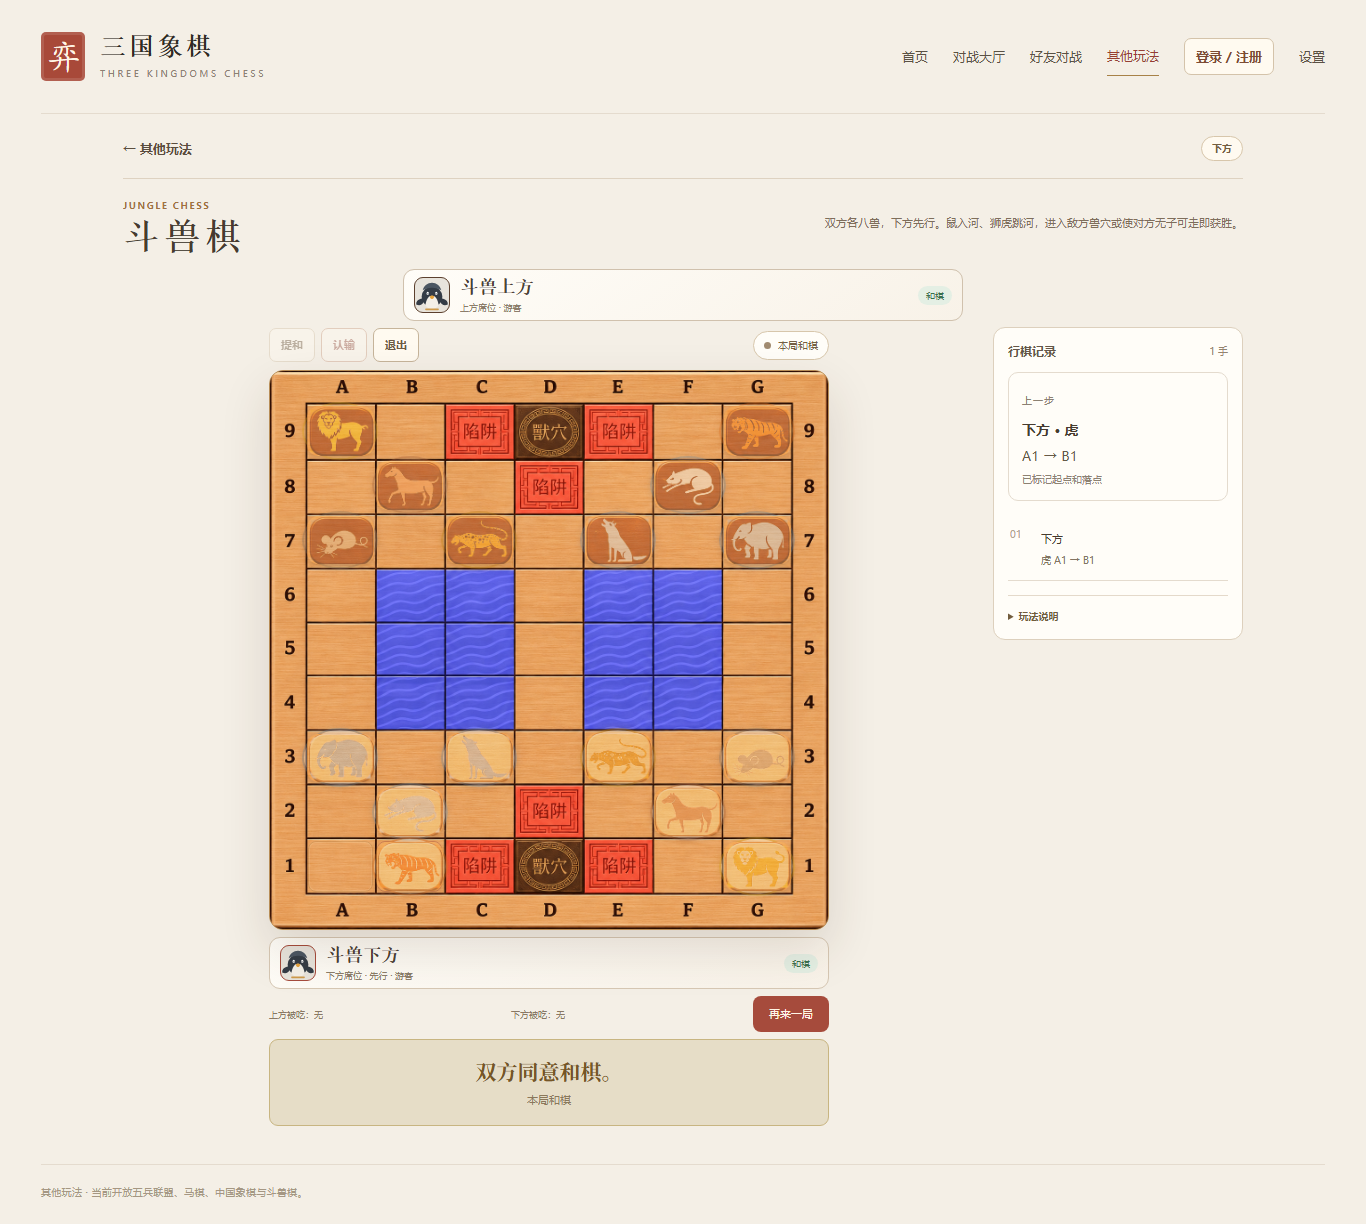
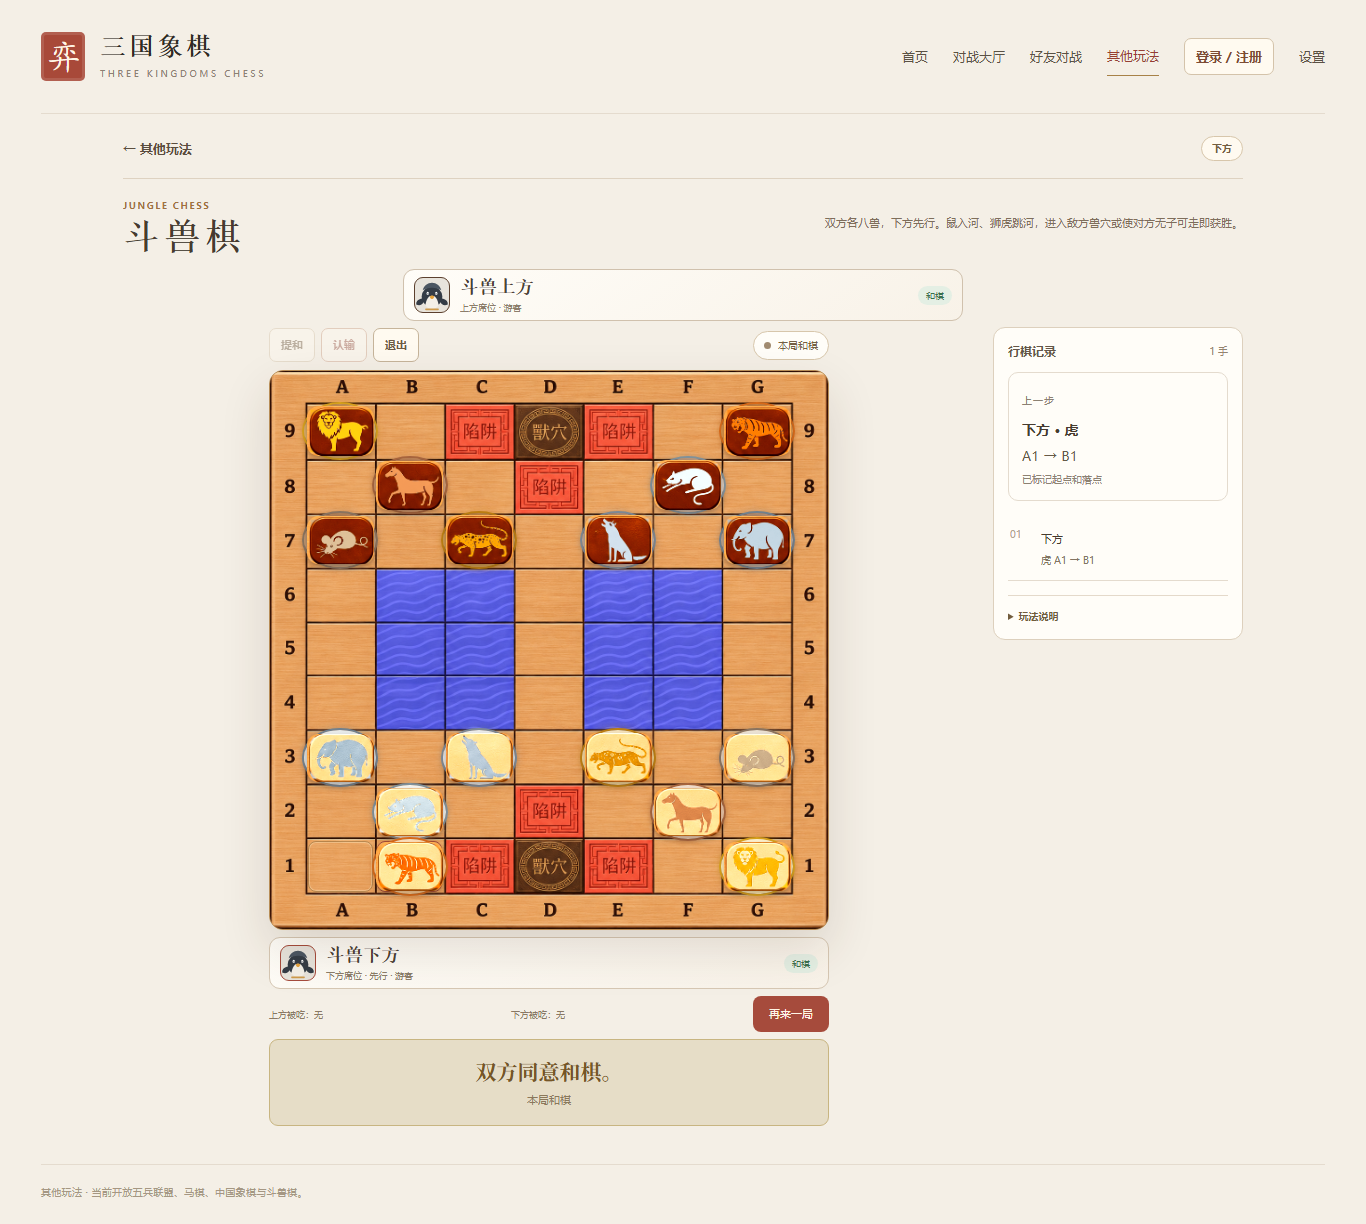
fix: sync beast chess views and move sounds

diff --git a/src/components/BeastChessBoard.vue b/src/components/BeastChessBoard.vue
@@ -19,6 +19,7 @@ const props = defineProps<{
   targets: BeastPoint[];
   lastMove: BeastMove | null;
   disabled?: boolean;
+  flipped?: boolean;
 }>();
 
 const emit = defineEmits<{ cell: [point: BeastPoint] }>();
@@ -26,7 +27,9 @@ const boardSource = 'images/beast-chess/board.png';
 
 const cells = computed(() => Array.from({ length: 9 }, (_, row) => Array.from(
   { length: 7 },
-  (_, x) => ({ x, y: 8 - row }),
+  (_, visualX) => props.flipped
+    ? { x: 6 - visualX, y: row }
+    : { x: visualX, y: 8 - row },
 )).flat());
 
 const isTarget = (point: BeastPoint) => props.targets.some(target => target.x === point.x && target.y === point.y);
@@ -58,7 +61,7 @@ function cellLabel(point: BeastPoint): string {
 <template>
   <div class="beast-board-frame">
     <img class="beast-board-image" :src="boardSource" alt="木质斗兽棋棋盘">
-    <div class="beast-board-grid" role="group" aria-label="斗兽棋棋盘">
+    <div class="beast-board-grid" role="group" :aria-label="flipped ? '斗兽棋棋盘，上方玩家视角' : '斗兽棋棋盘，下方玩家视角'">
       <button v-for="point in cells" :key="coordinate(point)" type="button" class="beast-cell"
         :class="{
           'has-piece': !!pieceAt(point),
@@ -69,7 +72,7 @@ function cellLabel(point: BeastPoint): string {
           'last-to': isLastPoint(point, 'to'),
           'last-path': isLastPath(point),
         }" :data-coordinate="coordinate(point)" :data-x="point.x" :data-y="point.y"
-        :aria-label="cellLabel(point)" :disabled="disabled" @click="emit('cell', point)">
+        :aria-label="cellLabel(point)" :aria-disabled="disabled" @click="emit('cell', point)">
         <BeastChessPiece v-if="pieceAt(point)" :piece="pieceAt(point)!" :selected="pieceAt(point)?.id === selectedId" />
         <span v-if="isTarget(point) && !pieceAt(point)" class="beast-target-dot" aria-hidden="true"></span>
       </button>
@@ -83,7 +86,7 @@ function cellLabel(point: BeastPoint): string {
 .beast-board-grid{position:absolute;left:6.3796%;top:5.7416%;display:grid;grid-template-columns:repeat(7,minmax(0,1fr));grid-template-rows:repeat(9,minmax(0,1fr));width:87.1611%;height:87.8788%}
 .beast-cell{position:relative;min-width:0;min-height:0;margin:0;padding:0;border:0;border-radius:8px;background:transparent;color:inherit;cursor:pointer;outline:none;transition:background .14s ease,box-shadow .14s ease}
 .beast-cell::before{position:absolute;inset:3%;z-index:1;border:1px solid transparent;border-radius:8px;content:"";pointer-events:none;transition:border-color .14s ease,background .14s ease,box-shadow .14s ease}
-.beast-cell:hover:not(:disabled)::before{background:#fff8e912;border-color:#7e4a2660}
+.beast-cell:hover:not([aria-disabled="true"])::before{background:#fff8e912;border-color:#7e4a2660}
 .beast-cell:focus-visible{box-shadow:inset 0 0 0 3px #fff9df,inset 0 0 0 5px #8d3f31}
 .beast-cell.selected::before{border-color:#9e3e31;background:#fff2d020;box-shadow:inset 0 0 13px #e5bb6b55}
 .beast-cell.last-from::before{border-color:#8b6d3d88;box-shadow:inset 0 0 0 1px #fff2d055}
@@ -91,7 +94,7 @@ function cellLabel(point: BeastPoint): string {
 .beast-cell.last-path::before{border-color:#d5c47a88;background:#d6b65516}
 .beast-cell.target::before{border-color:#80653188;background:#fff8dd15}
 .beast-cell.capture-target::before{border:2px solid #a73d30;background:#a73d3010;box-shadow:inset 0 0 0 2px #ffe9b5,0 0 9px #a73d3060}
-.beast-cell:disabled{cursor:default}
+.beast-cell[aria-disabled="true"]{cursor:default}
 .beast-target-dot{position:absolute;left:50%;top:50%;z-index:4;width:21%;aspect-ratio:1;transform:translate(-50%,-50%);border:2px solid #fff3d1;border-radius:50%;background:#9d6837;box-shadow:0 1px 5px #3d281c66}
 @media(max-width:640px){
   .beast-board-frame{width:calc(100vw - 8px);margin-left:calc((100% - (100vw - 8px)) / 2);border-radius:10px;box-shadow:0 12px 28px #3e2b1720,inset 0 0 0 3px #f1d8ad55}

diff --git a/src/components/BeastChessPage.vue b/src/components/BeastChessPage.vue
@@ -31,8 +31,14 @@ import type {
 } from '../beast-chess.ts';
 import { backendAssetUrl, socketIoConfig } from '../network-config.ts';
 import { appRouteUrl } from '../navigation.ts';
+import { BeastMoveSoundTracker, GameAudio, loadAudioSettings } from '../audio.ts';
+import type { AudioSettings } from '../audio.ts';
 
-const props = defineProps<{ accountName: string | null; accountAvatar?: string | null }>();
+const props = defineProps<{
+  accountName: string | null;
+  accountAvatar?: string | null;
+  audioSettings?: AudioSettings;
+}>();
 const emit = defineEmits<{ other: [] }>();
 const guestAvatar = 'images/guest-avatar.svg';
 const initialGame = newBeastGame();
@@ -61,6 +67,8 @@ const inviteVisible = ref(false), inviteText = ref('');
 const resignDialog = ref<HTMLDialogElement | null>(null), leaveDialog = ref<HTMLDialogElement | null>(null);
 const seatDialog = ref<HTMLDialogElement | null>(null);
 const watching = ref(false);
+const gameAudio = new GameAudio();
+const moveSoundTracker = new BeastMoveSoundTracker();
 let socket: Socket | null = null;
 let resumeAttempt = 0;
 
@@ -72,6 +80,7 @@ const mySeat = computed(() => myPlayer.value?.side ?? null);
 const myGameSide = computed<BeastSide | null>(() => mySeat.value ? beastSeatToGameSide(mySeat.value) : null);
 const isMyTurn = computed(() => game.value.status === 'playing'
   && !!myGameSide.value && game.value.turn === myGameSide.value);
+const boardFlipped = computed(() => mySeat.value === 'black');
 const selected = computed<BeastPiece | null>(() => selectedId.value
   ? game.value.pieces.find(piece => piece.id === selectedId.value) ?? null
   : null);
@@ -235,8 +244,14 @@ function openSocket() {
   const options = { ...config.options, autoConnect: false, reconnection: true, forceNew: true };
   socket = config.origin ? io(config.origin, options) : io(options);
   socket.on('connect', () => { connection.value = 'online'; void recover(); });
-  socket.on('disconnect', () => { connection.value = 'offline'; });
-  socket.on('connect_error', () => { connection.value = 'offline'; });
+  socket.on('disconnect', () => {
+    connection.value = 'offline';
+    moveSoundTracker.suspend();
+  });
+  socket.on('connect_error', () => {
+    connection.value = 'offline';
+    moveSoundTracker.suspend();
+  });
   socket.on('beast:state', acceptState);
   socket.on('beast:session-replaced', () => {
     clearSession();
@@ -466,6 +481,15 @@ function selectInvite(event: FocusEvent) {
 watch([() => roomState.value?.phase, () => game.value.turn], () => {
   selectedId.value = null;
 });
+watch(() => roomState.value?.game, current => {
+  if (!current) return;
+  const kind = moveSoundTracker.observe(
+    current,
+    `beast:${roomState.value?.round ?? 0}`,
+    connection.value === 'online',
+  );
+  if (kind) gameAudio.playEffect(kind, props.audioSettings ?? loadAudioSettings());
+});
 watch([() => props.accountName, () => props.accountAvatar], ([name], [previousName, previousAvatar]) => {
   if (name || props.accountAvatar !== previousAvatar) {
     guestName.value = '';
@@ -481,6 +505,7 @@ onBeforeUnmount(() => {
   socket?.removeAllListeners();
   socket?.disconnect();
   socket = null;
+  gameAudio.dispose();
 });
 
 defineExpose({ leaveForNavigation, openSeat });
@@ -536,6 +561,7 @@ defineExpose({ leaveForNavigation, openSeat });
           <div class="beast-online-board">
             <BeastChessBoard :pieces="game.pieces" :selected-id="selectedId" :targets="targets"
               :last-move="game.lastMove" :disabled="roomState?.phase !== 'playing' || !isMyTurn"
+              :flipped="boardFlipped"
               @cell="clickCell" />
             <div v-if="session && roomState?.phase === 'lobby'" class="beast-waiting-card">
               <span>棋桌准备</span>

diff --git a/tests/audio.test.ts b/tests/audio.test.ts
@@ -1,9 +1,17 @@
 import { test } from 'node:test';
 import assert from 'node:assert/strict';
 import { GlobalRegistrator } from '@happy-dom/global-registrator';
-import { AUDIO_SETTINGS_KEY, DEFAULT_AUDIO_SETTINGS, GameAudio, MoveSoundTracker, loadAudioSettings } from '../src/audio.ts';
+import {
+  AUDIO_SETTINGS_KEY,
+  BeastMoveSoundTracker,
+  DEFAULT_AUDIO_SETTINGS,
+  GameAudio,
+  MoveSoundTracker,
+  loadAudioSettings,
+} from '../src/audio.ts';
 import { MUSIC_PLAYLISTS, MUSIC_TRACKS, availablePlaylists, resolveMusicSelection, tracksInPlaylist } from '../src/music-catalog.ts';
 import { newGame, playMove } from '../src/game.ts';
+import { createBeastGame, newBeastGame, playBeastMove } from '../src/beast-chess.ts';
 
 test('sound settings default off, persist independent levels and reject malformed values', () => {
   GlobalRegistrator.register({ url: 'http://localhost:5173' });
@@ -52,6 +60,36 @@ test('sound tracker plays only one new authoritative move per live round', () =>
   assert.equal(tracker.observe(capture, 'room:2', true), 'capture');
   assert.equal(tracker.observe(capture, 'room:2', true), null);
   assert.equal(tracker.observe(initial, 'local', true), null); // entering local mode
+});
+
+test('beast chess sound tracker plays one move or capture and stays silent on reconnect snapshots', () => {
+  const initial = newBeastGame();
+  const tracker = new BeastMoveSoundTracker();
+  assert.equal(tracker.observe(initial, 'beast:1', true), null);
+  const moved = playBeastMove(initial, 'lower-tiger-0-0-0', { x: 1, y: 0 });
+  assert.equal(moved.ok, true);
+  if (!moved.ok) return;
+  assert.equal(tracker.observe(moved.game, 'beast:1', true), 'move');
+  assert.equal(tracker.observe(moved.game, 'beast:1', true), null);
+  assert.equal(tracker.observe(moved.game, 'beast:1', false), null);
+  assert.equal(tracker.observe(moved.game, 'beast:1', true), null);
+
+  const captureStart = createBeastGame([
+    { id: 'lower-lion', side: 'lower', kind: 'lion', x: 2, y: 2 },
+    { id: 'upper-dog', side: 'upper', kind: 'dog', x: 3, y: 2 },
+    { id: 'safe-upper-cat', side: 'upper', kind: 'cat', x: 6, y: 8 },
+  ]);
+  const captureTracker = new BeastMoveSoundTracker();
+  assert.equal(captureTracker.observe(captureStart, 'beast:2', true), null);
+  const captured = playBeastMove(captureStart, 'lower-lion', { x: 3, y: 2 });
+  assert.equal(captured.ok, true);
+  if (!captured.ok) return;
+  assert.equal(captureTracker.observe(captured.game, 'beast:2', true), 'capture');
+
+  const reconnectTracker = new BeastMoveSoundTracker();
+  assert.equal(reconnectTracker.observe(initial, 'beast:3', true), null);
+  reconnectTracker.suspend();
+  assert.equal(reconnectTracker.observe(moved.game, 'beast:3', true), null);
 });
 
 test('music uses one looping player, independent volume and a path relative to the site', async () => {

diff --git a/tests/beast-chess-ui.test.ts b/tests/beast-chess-ui.test.ts
@@ -76,6 +76,11 @@ test('Beast Chess joins one table by seat, starts after both ready, moves in syn
   await enterGuestSeat(upper, '.game-table-seat.black', '斗兽上方');
   assert.match(upper.get('.beast-side-chip').text(), /上方/);
   assert.match(lower.get('.beast-table-seat.upper').text(), /斗兽上方/);
+  assert.equal(upper.findAll('.beast-cell')[0].attributes('data-coordinate'), 'G1');
+  assert.equal(lower.findAll('.beast-cell')[0].attributes('data-coordinate'), 'A9');
+  assert.match(upper.get('.beast-board-grid').attributes('aria-label') ?? '', /上方玩家视角/);
+  assert.equal(upper.findAll('.beast-piece img').every(image =>
+    (image.attributes('src') ?? '').includes('?v=animal-colors-v2')), true);
 
   const readyUpper = upper.findAll('button').find(button => button.text() === '准备');
   assert.ok(readyUpper);
@@ -90,6 +95,8 @@ test('Beast Chess joins one table by seat, starts after both ready, moves in syn
   await lower.get('.beast-cell[data-coordinate="B1"]').trigger('click');
   await waitUntil(() => upper.get('.beast-history').text().includes('A1 → B1'), 'beast move did not synchronize');
   assert.match(upper.get('.beast-turn-badge').text(), /轮到 斗兽上方 行棋/);
+  assert.equal(lower.get('.beast-cell[data-coordinate="B1"]').attributes('disabled'), undefined);
+  assert.equal(lower.get('.beast-cell[data-coordinate="B1"]').attributes('aria-disabled'), 'true');
 
   localStorage.removeItem(BEAST_CHESS_SESSION_KEY);
   const visitor = mount(BeastChessPage, { attachTo: document.body, props: { accountName: null } });

diff --git a/src/audio.ts b/src/audio.ts
@@ -1,4 +1,5 @@
 import type { Game } from './game.ts';
+import type { BeastGame } from './beast-chess.ts';
 import { musicTrack, resolveMusicSelection } from './music-catalog.ts';
 
 export interface AudioSettings {
@@ -46,6 +47,27 @@ export class MoveSoundTracker {
     if (!sameScope || !previousLive || !live || game.history.length !== previousCount + 1) return null;
     const last = game.lastMove;
     return last?.number === game.history.length ? (last.captured ? 'capture' : 'move') : null;
+  }
+}
+
+/** Beast chess uses its own history shape but the same move/capture cues. */
+export class BeastMoveSoundTracker {
+  private scope = '';
+  private count = 0;
+  private live = false;
+  observe(game: Pick<BeastGame, 'history' | 'lastMove'>, scope: string, live: boolean): 'move' | 'capture' | null {
+    const previousCount = this.count;
+    const previousLive = this.live;
+    const sameScope = this.scope === scope;
+    this.scope = scope;
+    this.count = game.history.length;
+    this.live = live;
+    if (!sameScope || !previousLive || !live || game.history.length !== previousCount + 1) return null;
+    const last = game.lastMove;
+    return last?.number === game.history.length ? (last.captured ? 'capture' : 'move') : null;
+  }
+  suspend(): void {
+    this.live = false;
   }
 }
 

diff --git a/src/App.vue b/src/App.vue
@@ -776,7 +776,8 @@ async function requestRematch() {
 
     <ChineseChessPage v-else-if="page === 'chinese'" ref="chinesePage" :account-name="authUser?.username ?? null" :account-avatar="authUser?.avatarUrl ?? null" @other="openOtherPage" />
 
-    <BeastChessPage v-else-if="page === 'beast'" ref="beastPage" :account-name="authUser?.username ?? null" :account-avatar="authUser?.avatarUrl ?? null" @other="openOtherPage" />
+    <BeastChessPage v-else-if="page === 'beast'" ref="beastPage" :account-name="authUser?.username ?? null"
+      :account-avatar="authUser?.avatarUrl ?? null" :audio-settings="audioSettings" @other="openOtherPage" />
 
     <LobbyPage v-else-if="showLobbyPage" :mode="lobbyPageMode" :rooms="lobbyRooms" :nickname="nickname" :account-name="authUser?.username ?? null"
       :create-code="createCode" :join-code="joinCode" :listed="lobbyListed" :busy="onlineBusy" :connection="connection"

diff --git a/src/components/BeastChessPiece.vue b/src/components/BeastChessPiece.vue
@@ -12,7 +12,8 @@ const props = defineProps<{
 }>();
 
 const failed = ref(false);
-const imageSource = computed(() => `images/beast-chess/pieces/${props.piece.side}-${props.piece.kind}.png`);
+const imageSource = computed(() =>
+  `images/beast-chess/pieces/${props.piece.side}-${props.piece.kind}.png?v=animal-colors-v2`);
 const label = computed(() => `${BEAST_SIDE_NAMES[props.piece.side]}${BEAST_KIND_NAMES[props.piece.kind]}`);
 </script>
 

diff --git a/README.md b/README.md
@@ -25,7 +25,7 @@ npm run dev
 
 需要复验五兵联盟和马棋的单棋桌、实时走子、访客只读与手机布局时，保持 `npm run dev` 运行，在另一个终端执行 `npm run accept:other-games`。脚本会分别启动独立浏览器会话并生成 `docs/验收截图/五兵联盟-*.png` 与 `docs/验收截图/马棋-*.png`。
 
-需要复验斗兽棋联机棋桌、双方准备、实时走子、访客观战、提和、再来一局、认输、退出和手机布局时，保持 `npm run dev` 运行，在另一个终端执行 `npm run accept:beast`。脚本会生成 `docs/验收截图/斗兽棋-联机棋桌-空桌.png`、`斗兽棋-联机-对局.png`、`斗兽棋-联机-和棋.png` 与 `斗兽棋-手机-联机对局.png`。
+需要复验斗兽棋联机棋桌、双方准备、实时走子、自动视角、落子音效、访客观战、提和、再来一局、认输、退出和手机布局时，保持 `npm run dev` 运行，在另一个终端执行 `npm run accept:beast`。脚本会生成 `docs/验收截图/斗兽棋-联机棋桌-空桌.png`、`斗兽棋-联机-对局.png`、`斗兽棋-联机-上方视角.png`、`斗兽棋-联机-和棋.png` 与 `斗兽棋-手机-联机对局.png`。
 
 需要复验三国象棋创建房间后直接进入棋盘、三人阵营准备、同页开局、左侧菜单和手机布局时，保持 `npm run dev` 运行，在另一个终端执行 `npm run accept:three-kingdoms`。脚本会以真实 Chromium 页面配合两个独立 Socket.IO 客户端完成三人开局，并生成 `docs/验收截图/三国象棋-*.png`。
 
@@ -80,7 +80,7 @@ $env:Path="$env:JAVA_HOME\bin;$env:Path"
 - 五兵联盟复用木色棋盘、圆形棋子、权威落子、上一手、棋谱、翻转、认输、退出和同房间再来一局；已开局的新访客可查看服务端实际盘面但不能走棋或重开。离开页面、关闭页面或连接断开时继续按现有策略释放席位。
 - 马棋是独立双人单棋桌玩法：双方各九马，红方先行，马走日且受马腿阻挡，先踏入对方中央底线帅位的一方获胜。棋桌选座、中央开始/邀请、左侧对局菜单、访客旁观、终局和同房间再来一局均与五兵联盟、中国象棋保持一致。
 - 中国象棋为第三个独立双人单棋桌玩法：先在棋桌选择红方或黑方，入座后显示经典 32 子棋盘。规则包含九宫、马腿、象眼、炮架、过河兵、将帅照面、不得送将、将死与困毙判负。前三种联机棋桌玩法均支持双方同意和棋。
-- 斗兽棋为第四种联机双人玩法：沿用单棋桌模式，点击下方或上方空席位并入座，双方准备后开局。使用用户提供的木质 7×9 原图棋盘及原图中的 16 枚棋子；支持鼠入河、狮虎跳河、陷阱降级、兽穴与困毙胜、三次重复及 100 半回合和棋。页面左上固定显示提和、认输、退出，访客可点击进行中棋桌观战；结束后保留双方席位并可在原桌再来一局。
+- 斗兽棋为第四种联机双人玩法：沿用单棋桌模式，点击下方或上方空席位并入座，双方准备后开局。使用用户提供的木质 7×9 原图棋盘及原图中的 16 枚彩色棋子；支持鼠入河、狮虎跳河、陷阱降级、兽穴与困毙胜、三次重复及 100 半回合和棋。上方玩家自动获得本方子力在下方的翻转视角，非当前回合不会变暗；服务端确认新走棋后播放与三国象棋一致的落子/吃子音效。页面左上固定显示提和、认输、退出，访客可点击进行中棋桌观战；结束后保留双方席位并可在原桌再来一局。
 - 三国象棋主玩法改为同一棋盘内等待：创建或加入房间立即显示完整 29 子棋盘，三名玩家通过左侧头像选择魏、蜀、吴，在棋盘中央的等待层执行“开始/取消开始”和复制邀请链接；三人到齐并全部开始后，等待层消失，同一页面进入正式对局，不跳转独立等待页。
 - 公开对战大厅采用棋社式 10 桌视图：第 1 桌是无需创建、始终可加入的“公开房间”，其余 9 桌由玩家点击空桌创建；每桌按曹操、房间号/状态、刘备、孙权四栏展示。
 - 三个阵营席位均可点击，弹框只要求可选的“昵称：”；加入已有房间时直接坐到所点阵营，空桌则同时输入 6 位房间号后创建并入座。
@@ -305,8 +305,11 @@ npm run build
 | 马棋实时对局 | [截图](docs/验收截图/马棋-桌面-对局.png) | — |
 | 斗兽棋联机空桌 | [截图](docs/验收截图/斗兽棋-联机棋桌-空桌.png) | — |
 | 斗兽棋联机对局 | [截图](docs/验收截图/斗兽棋-联机-对局.png) | [截图](docs/验收截图/斗兽棋-手机-联机对局.png) |
+| 斗兽棋上方玩家视角 | [截图](docs/验收截图/斗兽棋-联机-上方视角.png) | — |
 | 斗兽棋联机和棋 | [截图](docs/验收截图/斗兽棋-联机-和棋.png) | — |
 | 账号上传头像 | [截图](docs/验收截图/账号-上传头像.png) | — |
+
+2026-11-21 斗兽棋联机显示与音效修复（仅本地，未部署服务器）：上方玩家入座后棋盘自动按本方视角翻转，本方棋子显示在下方，点击坐标仍映射到服务端标准坐标；棋盘非当前回合不再使用 `disabled`，子力保持原亮度。棋子图片地址增加颜色版本参数，避免浏览器继续命中旧版一年缓存。服务端确认新走棋后复用三国象棋的木质落子音效，吃子使用同一吃子音效；重连快照、刷新和重复广播不会重复播放，音效继续受现有开关和音量控制。`npm test` 共 199 项通过，`npm run check` 与 `npm run build` 通过；真实 Chromium 验证上下方自动视角、非回合亮度、双方各播放一次落子音效及手机布局。实体手机、微信内打开及公网跨设备仍需人工验收。
 
 2026-11-21 斗兽棋联机化（仅本地，未部署服务器）：斗兽棋由单机双人改为与五兵联盟、马棋、中国象棋一致的单棋桌联机流程，支持游客昵称或账号昵称、上下方选座、双方准备、服务端权威走棋、访客只读观战、提和同意/拒绝、认输、退出释放席位及原桌再来一局。页面左上固定显示提和、认输、退出；桌面棋盘限制为 560×560px，连同上下玩家信息共 763px 高，1366×768 下能在一屏内同时看到；390×844 下棋盘宽 358px、单格约 47×37px，无横向溢出。`npm test` 共 198 项通过，`npm run check` 与 `npm run build` 通过；真实 Chromium 使用三个独立浏览器上下文完成双方入座、准备、开局、实时走子、访客观战、和棋、再来一局、认输和退出释放，并保留桌面与手机截图。实体手机、微信内打开及公网跨设备仍需人工验收。
 
